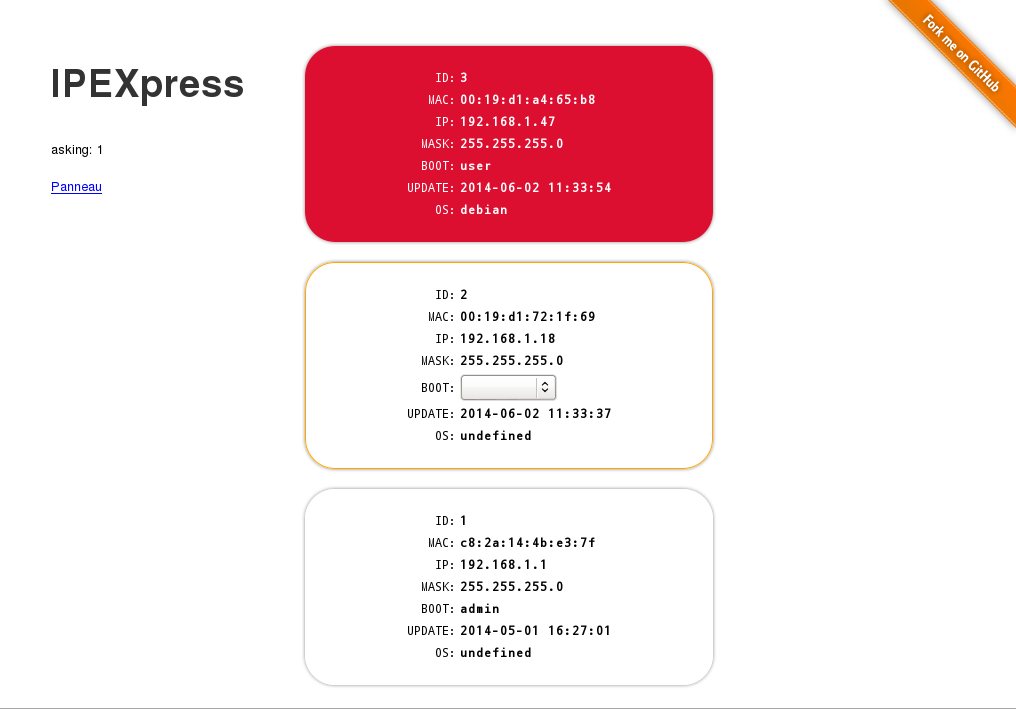
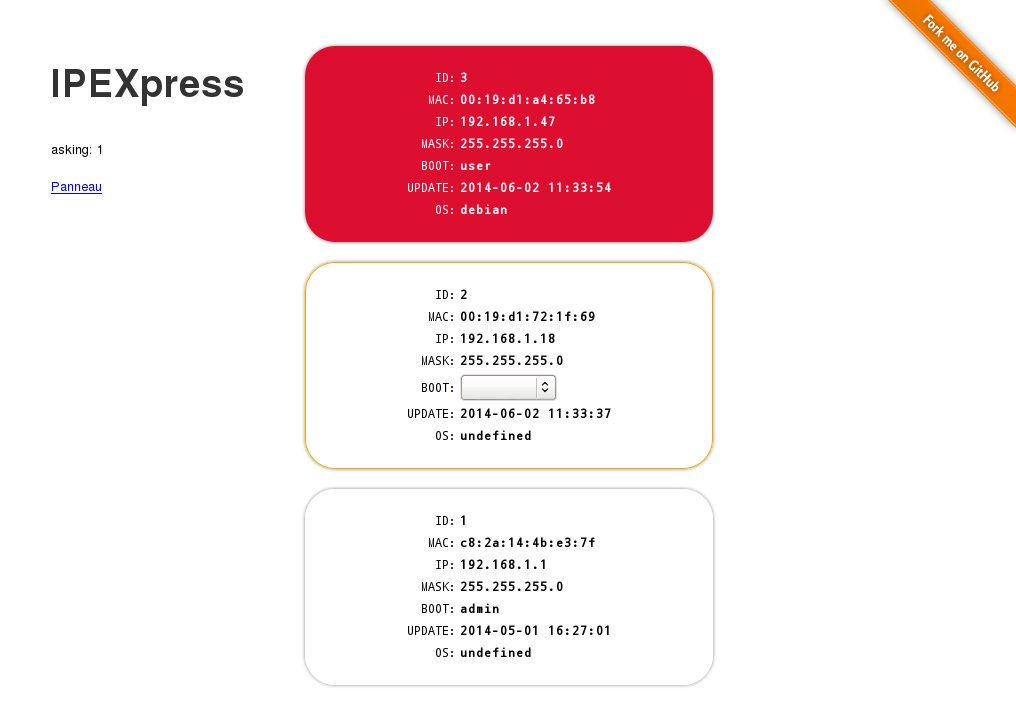
correction bug + couleur automatique tableau de bord

diff --git a/web/dashboard/dashboard.js b/web/dashboard/dashboard.js
@@ -12,7 +12,7 @@ function reload(){
 			if (field["boot"]=="asking") {
 				$classname = "asking"
 			};
-			$box = "<div class=" + $classname + "><table>\n";
+			$box = "<div class=" + $classname + " style='background-color:" + color($classname) + ";' ><table>\n";
 			$.each(field, function(j,param){
 				if (j=="boot" && param=="asking") {
 					$box += "<tr><td>" + j + ":</td><td><select onchange='getchoice(" + field["id"] + ")' id='choice" + field["id"] + "'></select></td></tr>\n";
@@ -51,4 +51,13 @@ function getchoice(id){
 			alert(data);
 		};
 	});
+}
+
+function color(mot){
+	if (mot=="undefined") {
+		return "white";
+	};
+	for (var i = 0, hash = 0; i < mot.length; hash = mot.charCodeAt(i++) + ((hash << 5) - hash));
+	for (var i = 0, colour = "#"; i < 3; colour += ("00" + ((hash >> i++ * 8) & 0xFF).toString(16)).slice(-2));
+	return colour;
 }

diff --git a/web/dashboard/dashboard.css b/web/dashboard/dashboard.css
@@ -43,6 +43,11 @@ div#computers div {
 	margin-bottom: 20px;
 	box-shadow: 0px 0px 3px #888888;
 	border-radius: 30px;
+	color: white;
+}
+
+div#computers div.undefined {
+	color: black;
 }
 
 div#computers div table {
@@ -57,26 +62,6 @@ div#computers div table tr td:first-child {
 
 div#computers div table tr td:last-child {
 	font-weight: bold;
-}
-
-div#computers div.debian {
-	background-color: #DC0F30;
-	color: white;
-}
-
-div#computers div.grml {
-	background-color: #479647;
-	color: white;
-}
-
-div#computers div.windows {
-	background-color: #006699;
-	color: white;
-}
-
-div#computers div.frog {
-	background-color: #942E7B;
-	color: white;
 }
 
 div#computers div.undefined {

diff --git a/nfs/mounted/README.md b/nfs/mounted/README.md
@@ -1,3 +1,5 @@
-DO NOT PUT ANYTHING IN THIS FOLDER
+NE RIEN PLACER DANS CE REPERTOIRE
 
-Here will be mounted all iso located in the distribution folder. In order to do that run `mount.sh`.
+Dans ce dossier seront pmonté les distribution placé dans `distrib`.
+
+[TUTO](https://github.com/S3LLL/IPEXpress/wiki/Ajouter-une-distribution)

diff --git a/distrib/README.md b/distrib/README.md
@@ -1,3 +1,3 @@
-Ajouter vos distribution dans ce répertoire pour les rendres accessible avec iPXE.
+Ajouter vos distributions dans ce répertoire pour les rendres accessible avec iPXE.
 
 [TUTO](https://github.com/S3LLL/IPEXpress/wiki/Ajouter-une-distribution)
